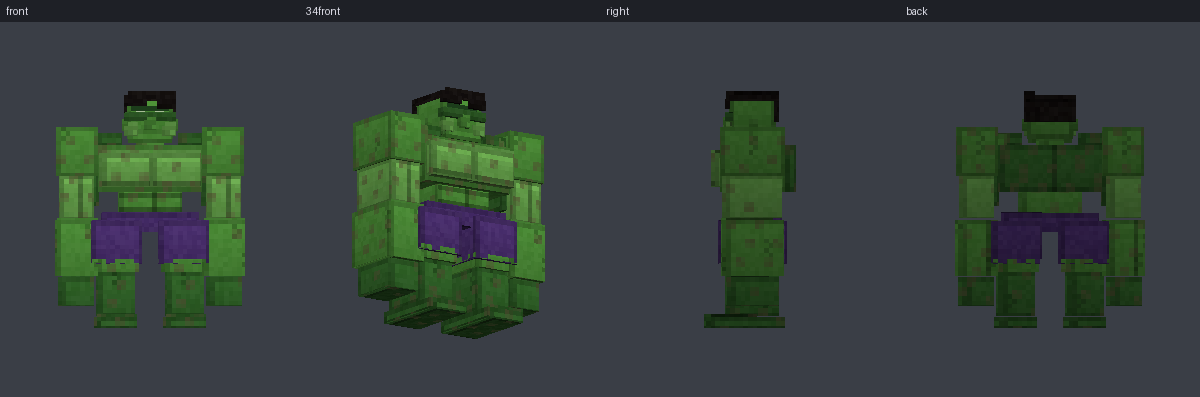
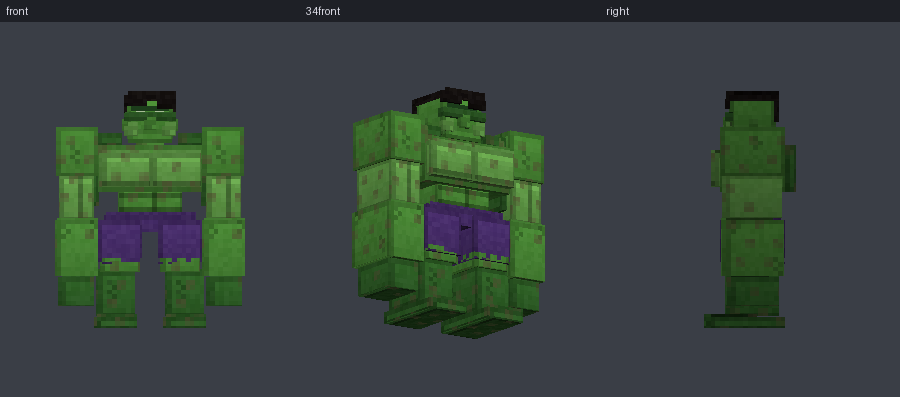
Hulk: slimmer upper legs, glowing green eyes via a glow render layer
Claude-Session: https://claude.ai/code/session_0188b5ePPcD9SacDEbjpCJ83

diff --git a/heroes/tools/models/hulk_model.py b/heroes/tools/models/hulk_model.py
@@ -92,7 +92,7 @@ def build():
     m.cube("armorBody", [7.4, 38.8, -5.5], [6.6, 2.8, 11], mot(DARK, 32, 0.2))
     m.cube("armorBody", [-17.5, 37.2, -5.5], [6, 4.2, 11], mot(GREEN, 21, 0.2))                               # traps step down to the shoulders
     m.cube("armorBody", [11.5, 37.2, -5.5], [6, 4.2, 11], mot(GREEN, 22, 0.2))
-    m.cube("armorBody", [-13, 20.5, -6.4], [26, 4.2, 12.8], Torn((84, 54, 124), depth=1, seed=23, noise=6))   # shorts waist
+    m.cube("armorBody", [-12.4, 20.5, -6.2], [24.8, 4.2, 12.4], Torn((84, 54, 124), depth=1, seed=23, noise=6))   # shorts waist
 
     # ------------------------------------------------------------------ arms: huge, hanging low (right arm at -x; left mirrored)
     arm = [
@@ -107,10 +107,10 @@ def build():
 
     # ------------------------------------------------------------------ legs: long pillars set well apart, big bare feet
     legs = [
-        ([-15, 12, -6.6], [12, 10.4, 13.2], mot(GREEN, 28, 0.14)),                                            # thigh
+        ([-13.4, 12, -6.4], [10.6, 10.4, 12.8], mot(GREEN, 28, 0.14)),                                            # thigh
         ([-14.4, 2.6, -5.8], [10.4, 10, 11.6], mot(DARK, 29, 0.16, veins=1)),                                 # calf
         ([-15, 0, -10.4], [11.4, 3, 17.4], mot(DARK, 30, 0.14, edge=0.7)),                                    # big bare foot
-        ([-15.8, 13.6, -7.4], [13.6, 9.4, 14.8], Torn((88, 56, 130), depth=2, seed=31, noise=6)),             # shorts leg
+        ([-14.0, 13.6, -7.0], [11.8, 9.4, 14.0], Torn((88, 56, 130), depth=2, seed=31, noise=6)),             # shorts leg
     ]
     for origin, size, painter in legs:
         c = m.cube("armorRightLeg", origin, size, painter)
@@ -128,10 +128,27 @@ def build():
     return m
 
 
+def build_eyes():
+    """Just the two eyes, drawn by a second render layer with the `glow` render type so they shine in the dark."""
+    m = ModelBuilder("geometry.hulk_eyes", 16, 16)
+    m.bone("armorHead", [0, 40, 0])
+    m.bone("armorBody", [0, 38, 0])
+    m.bone("armorRightArm", [-17 * WIDTH, 40, 0])
+    m.bone("armorLeftArm", [17 * WIDTH, 40, 0])
+    m.bone("armorRightLeg", [-9 * WIDTH, 22, 0])
+    m.bone("armorLeftLeg", [9 * WIDTH, 22, 0])
+    glow = Flat((120, 255, 90), noise=0, edge=1.0)
+    m.cube("armorHead", [1.0, 43.2, -6.2], [2.4, 1.4, 0.8], glow)
+    m.cube("armorHead", [-3.4, 43.2, -6.2], [2.4, 1.4, 0.8], glow)
+    return m
+
+
 if __name__ == "__main__":
     root = os.path.join(os.path.dirname(__file__), "..", "..", "src", "main", "resources", "assets", "hulk")
     os.makedirs(os.path.join(root, "geo"), exist_ok=True)
     os.makedirs(os.path.join(root, "textures", "models"), exist_ok=True)
     model = build()
     model.write(os.path.join(root, "geo", "hulk.geo.json"), os.path.join(root, "textures", "models", "hulk.png"))
+    eyes = build_eyes()
+    eyes.write(os.path.join(root, "geo", "hulk_eyes.geo.json"), os.path.join(root, "textures", "models", "hulk_eyes.png"))
     print("wrote the Hulk model and texture")

diff --git a/heroes/README.md b/heroes/README.md
@@ -224,7 +224,7 @@ Models are authored in code so they can be looked at and improved without launch
 
 - `tools/modelpreview.py model.geo.json texture.png out.png` renders a front / 3/4 / side / back preview sheet of any GeckoLib cube model (needs `numpy` and `Pillow`). Calibrated against the vanilla Steve skin.
 - `tools/models/mc_model.py` is a small builder: describe cubes and how to paint them and it packs the texture, paints it and writes the `.geo.json` and `.png`.
-- `tools/models/hulk_model.py` generates the Hulk model and texture (about 3 blocks tall: wide shoulders, long legs set apart, 512x512 texture) (re-run it after editing, then re-run the preview). Latest preview: `previews/hulk.png`.
+- `tools/models/hulk_model.py` generates the Hulk model and texture (about 3 blocks tall: wide shoulders, long legs set apart, 512x512 texture; the eyes are a second render layer, hulk:hulk_eyes, with the glow render type) (re-run it after editing, then re-run the preview). Latest preview: `previews/hulk.png`.
 
 The generated files are ordinary GeckoLib assets, so you can still open them in Blockbench and edit or replace them; keep the bone names (`armorHead`, `armorBody`, `armorRightArm`, `armorLeftArm`, `armorRightLeg`, `armorLeftLeg`).
 While the Hulk power is active the player's own body is hidden (`palladium:remove_body_part`), so only the Hulk model shows.
